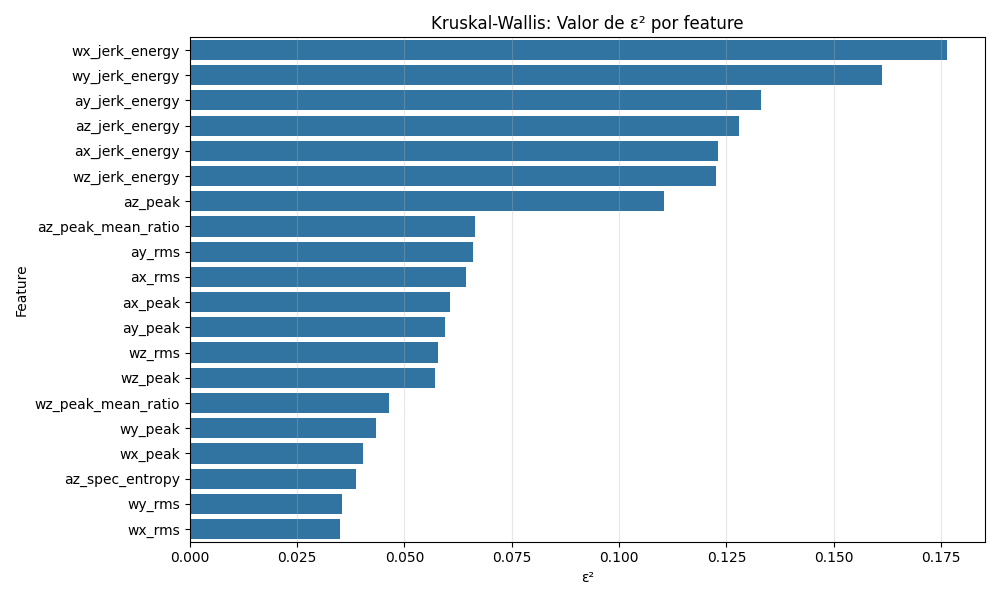
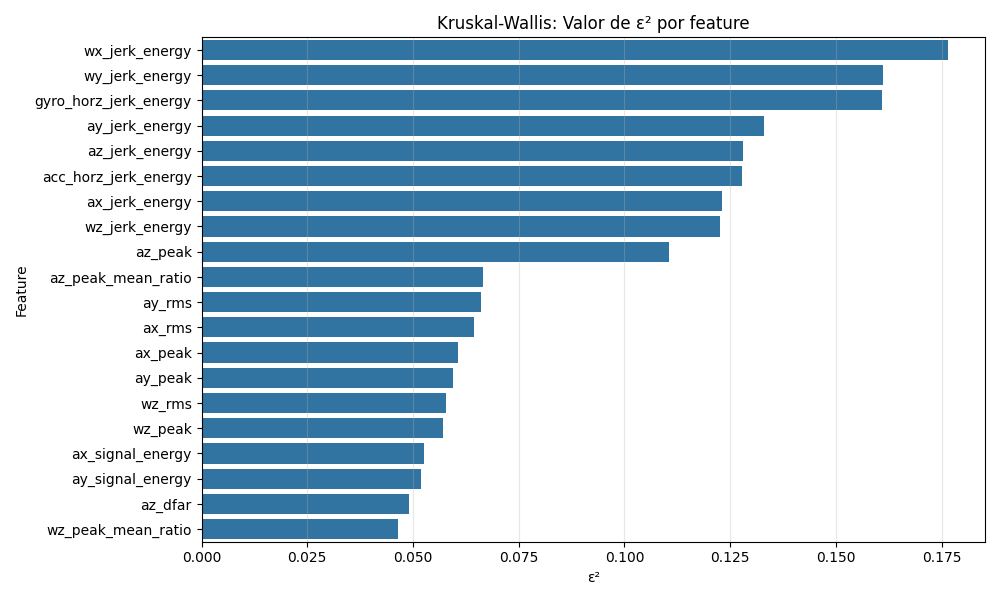
Actualizo graficos

diff --git a/sereTestLib/Giros/Visualizacion.py b/sereTestLib/Giros/Visualizacion.py
@@ -345,6 +345,11 @@ def plot_turn_features_by_age_group(df, feature_cols, output_dir, feature_names 
         seguro para archivos (usado para los nombres de los PNG generados).
     """
 
+    ## Agrego configuraciones necesarias para que los gráficos se guarden y no se desplieguen
+    ## en la pantall mientras está ejecutándose la función (se vuelve molesto sino)
+    use("Agg")
+    plt.ioff()
+
     ## Construyo el timestamp en el cual indica el instante en el que se generan los gráficos
     timestamp = datetime.now().strftime("%Y-%m-%d_%H-%M-%S")
 

diff --git a/sereTestLib/Giros/Script.py b/sereTestLib/Giros/Script.py
@@ -457,8 +457,8 @@ if __name__== '__main__':
 
         ## Hago la visualización del espacio de features en 2D
         plot_feature_space_2d(df = df_dataset_binary, feature_x = feature_x,
-        feature_y = feature_y, target_col = "age_group_binary", class_labels = {0: "≤75", 1: ">75"},
-        title = "Espacio de features: energía de jerk en plano horizontal", alpha = 0.5)
+            feature_y = feature_y, target_col = "age_group_binary", class_labels = {0: "≤75", 1: ">75"},
+            title = "Espacio de features: energía de jerk en plano horizontal", alpha = 0.5)
 
         ## ======================================================
         ## CONSTRUCCIÓN Y GUARDADO DE GRÁFICOS